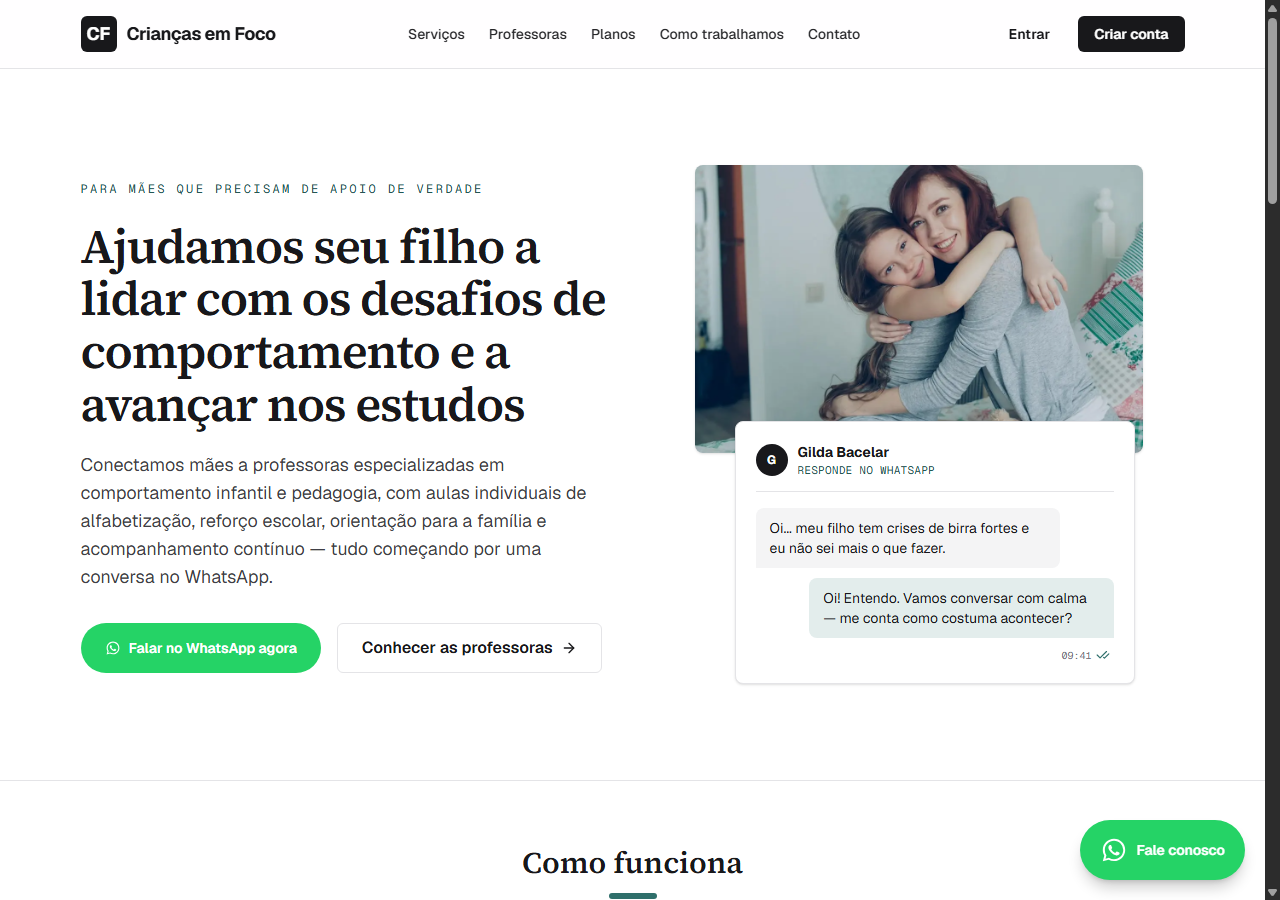
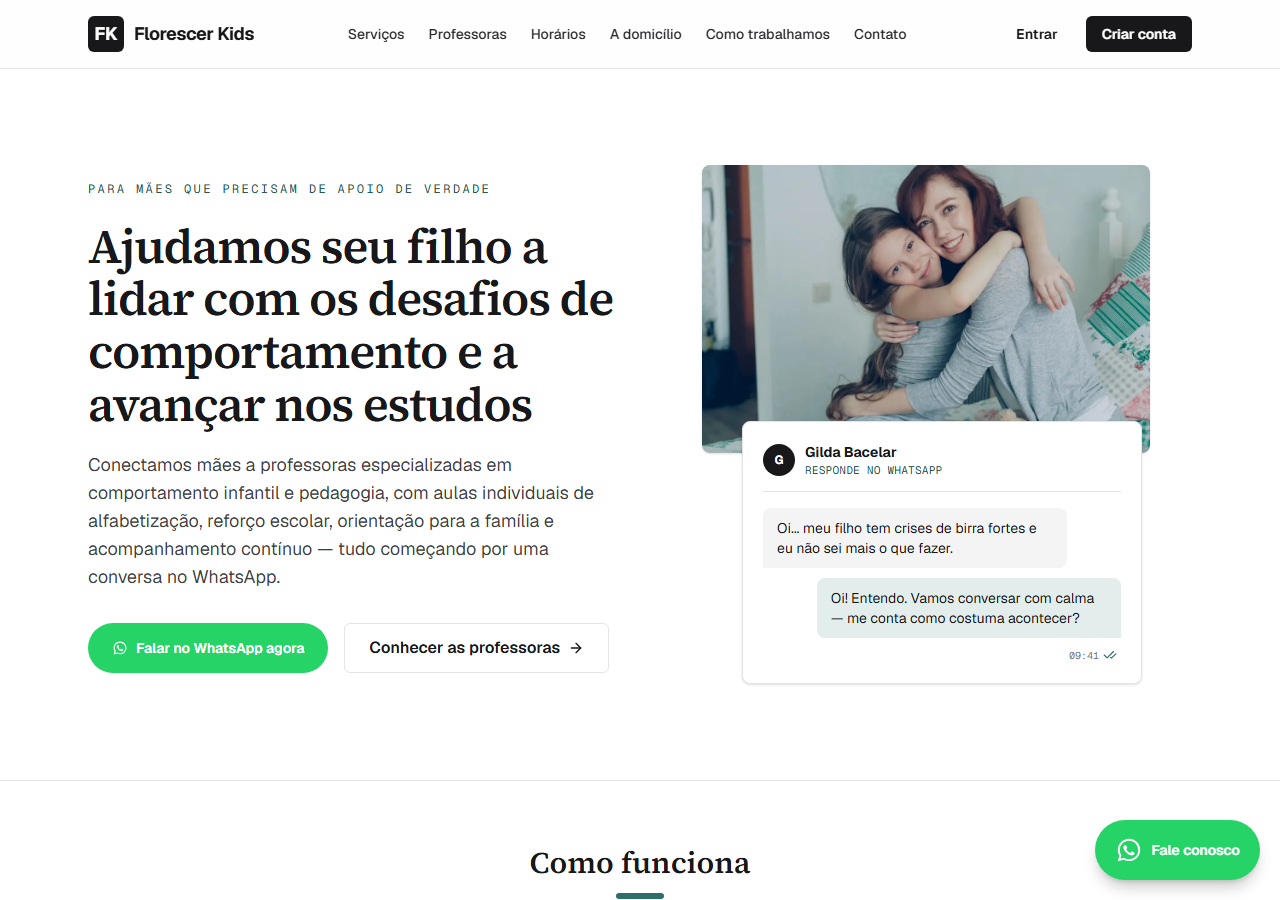
Atualizar README para refletir o estado atual do projeto
O README estava desatualizado desde a virada pra PIX/domicilio: ainda
falava em Resend (trocado pelo Gmail SMTP), nao mencionava atendimento
a domicilio, bloqueio de dias, nota pos-aula, rate limiting nem Sentry.

Tambem atualizada a screenshot da home (o visual mudou bastante desde
a ultima) e o .env.example com as variaveis reais em uso hoje.

diff --git a/README.md b/README.md
@@ -1,29 +1,34 @@
 # Florescer Kids
 
-Plataforma que conecta mães a professoras especializadas em **comportamento infantil e pedagogia** — aulas particulares (TDAH, TEA, birras, ansiedade, alfabetização, reforço escolar), com agendamento online, pagamento por PIX e contato direto por WhatsApp.
+Plataforma que conecta mães a professoras especializadas em **comportamento infantil e pedagogia** — aulas particulares (TDAH, TEA, birras, ansiedade, alfabetização, reforço escolar), com agendamento online ou a domicílio, pagamento por PIX e contato direto por WhatsApp.
 
-![Next.js](https://img.shields.io/badge/Next.js-16-black?logo=next.js) ![TypeScript](https://img.shields.io/badge/TypeScript-strict-blue?logo=typescript) ![Tailwind CSS](https://img.shields.io/badge/Tailwind-v4-38bdf8?logo=tailwindcss) ![Prisma](https://img.shields.io/badge/Prisma-v7-2D3748?logo=prisma) ![Deploy](https://img.shields.io/badge/deploy-Vercel-black?logo=vercel)
+![Next.js](https://img.shields.io/badge/Next.js-16-black?logo=next.js) ![TypeScript](https://img.shields.io/badge/TypeScript-strict-blue?logo=typescript) ![Tailwind CSS](https://img.shields.io/badge/Tailwind-v4-38bdf8?logo=tailwindcss) ![Prisma](https://img.shields.io/badge/Prisma-v7-2D3748?logo=prisma) ![Deploy](https://img.shields.io/badge/deploy-Vercel-black?logo=vercel) ![Sentry](https://img.shields.io/badge/monitoring-Sentry-362d59?logo=sentry)
 
 ![Página inicial do Florescer Kids](docs/screenshot-home.png)
 
 ## Sobre o projeto
 
-Mães que enfrentam desafios de comportamento ou aprendizagem com os filhos costumam pesquisar ajuda sozinhas, à noite, cansadas, sem saber por onde começar. O Florescer Kids existe para tornar esse primeiro passo simples: a mãe conhece o perfil de uma professora especializada, vê especialidades, avaliações reais de outras famílias e preço, e já sai agendando uma aula ou falando direto no WhatsApp — sem formulário longo, sem espera.
+Mães que enfrentam desafios de comportamento ou aprendizagem com os filhos costumam pesquisar ajuda sozinhas, à noite, cansadas, sem saber por onde começar. O Florescer Kids existe para tornar esse primeiro passo simples: a mãe conhece o perfil de uma professora especializada, vê especialidades, formação, avaliações reais de outras famílias e preço, e já sai agendando uma aula — online ou presencial — ou falando direto no WhatsApp, sem formulário longo, sem espera.
 
-O modelo é intencionalmente enxuto: cada professora tem um perfil completo (bio, especialidades, fotos), a mãe agenda diretamente num horário fixo de atendimento (segunda a sexta a partir das 17h, fins de semana a partir das 14h) e paga a aula via PIX, direto para a professora. Um painel de administração permite acompanhar reservas e aprovar novas professoras.
+O modelo é intencionalmente enxuto: cada professora tem um perfil completo (bio, formação, especialidades, foto), a mãe agenda diretamente num horário fixo de atendimento e paga a aula via PIX, direto para a professora. Um painel de administração permite acompanhar reservas e aprovar novas professoras.
 
 ## Funcionalidades
 
-- **Perfis de professoras** com bio, foto, tags de especialidade coloridas por categoria e avaliações reais de mães
-- **Página de horários** com a disponibilidade dos próximos dias (fixa: seg-sex a partir das 17h, fins de semana a partir das 14h, no máximo 3 aulas/dia)
-- **Agendamento de aulas** com verificação de horário disponível em tempo real (sem overbooking)
-- **Pagamento por PIX**: QR code (BR Code) e chave gerados dinamicamente, exibidos na página de horários e no perfil da professora
+- **Perfis de professoras** com bio, formação/credenciais, foto, tags de especialidade coloridas por categoria e avaliações reais de mães
+- **Atendimento online**, por videochamada (Google Meet) — seg-sex a partir das 17h, fins de semana a partir das 14h, no máximo 3 aulas/dia
+- **Atendimento a domicílio** (área de serviço restrita), com a família escolhendo a direção (professora vai até a família, ou a família vai até a professora) — máximo 1 atendimento/dia, endereço tratado como dado sensível (só visível entre as duas partes, nunca público)
+- **Bloqueio de dias** pela professora (viagem, feriado, imprevisto) — o dia some da disponibilidade automaticamente
+- **Agendamento de aulas** com verificação de horário disponível em tempo real e um índice único no banco que impede duas reservas no mesmo horário mesmo em caso de corrida entre requisições simultâneas
+- **Pagamento por PIX**: QR code (BR Code) e chave gerados dinamicamente, com o valor certo pra cada modalidade
+- **Nota pós-aula**: a professora registra o que trabalhou depois de concluir uma aula, visível pra mãe no painel dela
 - **Avaliações**: mães avaliam a aula (1–5 estrelas + comentário) depois de concluída
 - **Contato direto por WhatsApp** (click-to-chat) — botão flutuante, por professora e por aula agendada
-- **Lembrete automático por e-mail** no dia anterior a cada aula confirmada (cron diário)
-- **Painel da mãe**: aulas agendadas, cancelamento, histórico
-- **Painel da professora**: perfil, confirmação/cancelamento de aulas
+- **E-mails transacionais**: aviso pra professora a cada novo agendamento, lembrete no dia anterior a cada aula confirmada, redefinição de senha
+- **Painel da mãe**: aulas agendadas, cancelamento, histórico, contador de aulas com a professora
+- **Painel da professora**: perfil, agenda (pendentes/confirmadas/histórico), resumo de ganhos previstos e avaliação média, dicas rotativas
 - **Painel de administração**: aprovação de professoras, visão geral das reservas
+- **Rate limiting** em login, cadastro e recuperação de senha (proteção contra força bruta)
+- **Monitoramento de erros em produção** (Sentry) — cliente, servidor e edge
 - **SEO completo**: metadata por página, Open Graph dinâmico, sitemap, robots.txt
 - **Identidade visual própria**: paleta editorial com cores por categoria de especialidade, tipografia serifada + mono, animações discretas de scroll
 
@@ -36,7 +41,8 @@ O modelo é intencionalmente enxuto: cada professora tem um perfil completo (bio
 | Banco de dados | PostgreSQL via [Neon](https://neon.tech), [Prisma ORM v7](https://www.prisma.io) (`@prisma/adapter-neon`) |
 | Autenticação | [NextAuth v5](https://authjs.dev) (credenciais e-mail/senha, papéis mãe / professora / admin) |
 | Pagamentos | PIX (BR Code gerado com [`qrcode`](https://www.npmjs.com/package/qrcode), sem intermediário) |
-| E-mail | [Resend](https://resend.com) — lembretes de aula e redefinição de senha |
+| E-mail | SMTP do Gmail via [Nodemailer](https://nodemailer.com) — avisos, lembretes e redefinição de senha |
+| Monitoramento | [Sentry](https://sentry.io) (`@sentry/nextjs`) — captura de erros em cliente, servidor e edge |
 | Deploy | [Vercel](https://vercel.com) (deploy automático a cada push em `main`) |
 
 ## Como rodar localmente
@@ -61,29 +67,34 @@ Acesse http://localhost:3000. As credenciais das contas de teste criadas pelo se
 | `AUTH_SECRET` | Chave usada pelo NextAuth para assinar sessões — gere com `openssl rand -base64 32` |
 | `NEXT_PUBLIC_WHATSAPP_NUMBER` | Número de WhatsApp da equipe (DDI+DDD, só dígitos) usado no botão flutuante do site |
 | `NEXT_PUBLIC_SITE_URL` | URL pública do site, usada nos e-mails e no metadata de SEO |
-| `RESEND_API_KEY` | Chave de API do Resend, para envio de e-mails transacionais |
-| `RESEND_FROM_EMAIL` | Endereço remetente dos e-mails — precisa ser de um domínio verificado no Resend para enviar a qualquer destinatário |
+| `GMAIL_USER` | Conta do Gmail usada para enviar e-mails transacionais via SMTP |
+| `GMAIL_APP_PASSWORD` | Senha de app do Gmail (gerada em myaccount.google.com/apppasswords, não é a senha normal da conta) |
+| `NEXT_PUBLIC_SENTRY_DSN` | DSN do projeto no Sentry, para captura de erros em produção (opcional em dev) |
 | `CRON_SECRET` | Token que protege a rota do cron de lembretes de aula (`/api/cron/booking-reminders`) |
 
 ## Estrutura principal
 
 - `src/app/page.tsx` — landing page (hero, serviços, professoras em destaque, avaliações)
-- `src/app/professoras` — listagem e perfil da professora, com agendamento, PIX e avaliações
-- `src/app/horarios` — disponibilidade dos próximos dias e informações de pagamento por PIX
+- `src/app/professoras` — listagem e perfil da professora, com agendamento online, PIX e avaliações
+- `src/app/horarios` — disponibilidade dos próximos dias (atendimento online) e informações de pagamento por PIX
+- `src/app/domicilio` — atendimento presencial: área de serviço, escolha de direção, agenda própria e FAQ
 - `src/app/cadastro`, `src/app/login`, `src/app/esqueci-senha` — conta (mãe ou professora), login e recuperação de senha
-- `src/app/dashboard` — painel: mães veem aulas agendadas; professoras editam perfil e confirmam aulas
+- `src/app/dashboard` — painel: mães veem aulas agendadas; professoras editam perfil, gerenciam a agenda e bloqueiam dias
 - `src/app/admin` — aprovação de professoras e visão geral das reservas
 - `src/app/api/cron/booking-reminders` — envia lembrete por e-mail no dia anterior a cada aula confirmada
-- `src/lib/schedule.ts` — regras fixas de horário (dias/horas de atendimento, limite diário)
-- `src/lib/pix.ts` — geração do payload PIX (BR Code) e do QR code
-- `src/lib/actions` — Server Actions (cadastro, login, agendamento, avaliação, admin)
-- `src/components` — componentes de UI compartilhados (`SpecialtyTags`, `SectionMark`, `PixPaymentInfo`, `RatingStars`, formulários)
-- `prisma/schema.prisma` — modelos `User`, `TeacherProfile`, `Availability`, `Booking`, `Review`
+- `src/lib/schedule.ts` — regras fixas de horário (online e a domicílio, cada uma com seu limite diário)
+- `src/lib/pix.ts` — geração do payload PIX (BR Code) e do QR code, com valor configurável
+- `src/lib/email.ts` — envio de e-mails transacionais (Nodemailer/Gmail)
+- `src/lib/rateLimit.ts` + `src/lib/clientIp.ts` — rate limiting baseado em banco, sem dependência externa
+- `src/lib/actions` — Server Actions (cadastro, login, agendamento, avaliação, perfil, bloqueio de dias, admin)
+- `src/components` — componentes de UI compartilhados (`SpecialtyTags`, `SectionMark`, `PixPaymentInfo`, `RatingStars`, `TeacherCard`, formulários)
+- `src/instrumentation.ts` + `sentry.*.config.ts` — configuração do Sentry
+- `prisma/schema.prisma` — modelos `User`, `TeacherProfile`, `Booking` (com modalidade online/domicílio), `BlockedDate`, `Review`, `RateLimitAttempt`
 - `prisma/seed.ts` — dados de exemplo
 
 ## Sobre a integração com WhatsApp
 
-A integração é via **click-to-chat** (`https://wa.me/<número>?text=...`), que não exige aprovação da Meta nem tem custo — funciona com qualquer número comum. Aparece em três lugares: botão flutuante em todas as páginas, botão no perfil de cada professora (com mensagem pré-preenchida) e botão em cada aula agendada no painel da mãe.
+A integração é via **click-to-chat** (`https://wa.me/<número>?text=...`), que não exige aprovação da Meta nem tem custo — funciona com qualquer número comum. Aparece em vários pontos: botão flutuante em todas as páginas, botão no perfil de cada professora (com mensagem pré-preenchida) e botão em cada aula agendada no painel da mãe.
 
 Se no futuro for necessário automatizar respostas ou confirmações, é possível evoluir para a **WhatsApp Business API** (Meta Cloud API ou provedores como Twilio/Z-API), mas isso exige aprovação de conta business e tem custo por mensagem.
 
@@ -91,9 +102,9 @@ Se no futuro for necessário automatizar respostas ou confirmações, é possív
 
 Não há integração com gateway de pagamento: o site gera um QR code (BR Code) e mostra a chave PIX da professora, e o pagamento é feito manualmente, fora da plataforma — a mãe agenda a aula, paga direto para a professora e o agendamento é confirmado por confiança (sem verificação automática de pagamento).
 
-Os dados do recebedor (chave PIX, nome e cidade — exigidos pelo padrão do Banco Central) ficam em `PIX_CONFIG`, no topo de `src/lib/pix.ts`. Para trocar a chave ou o nome exibido, edite essa constante — não é uma variável de ambiente.
+Os dados do recebedor (chave PIX, nome e cidade — exigidos pelo padrão do Banco Central) ficam em `PIX_CONFIG`, no topo de `src/lib/pix.ts`. O valor mostrado no QR code varia conforme a modalidade — vem do preço configurado no perfil de cada professora (`pricePerHour` para online, `pricePerHourDomicilio` para atendimento a domicílio).
 
-As regras de horário (dias/horas de atendimento e limite de aulas por dia) ficam em `SCHEDULE_RULES`, em `src/lib/schedule.ts`.
+As regras de horário (dias/horas de atendimento e limite de aulas por dia, para cada modalidade) ficam em `src/lib/schedule.ts`.
 
 ## Deploy (passo a passo)
 
@@ -104,7 +115,7 @@ Crie uma conta em https://neon.tech, crie um projeto (região São Paulo/`sa-eas
 ### 2. GitHub
 
 ```bash
-git remote add origin https://github.com/SEU-USUARIO/criancas-em-foco.git
+git remote add origin https://github.com/SEU-USUARIO/florescer-kids.git
 git branch -M main
 git push -u origin main
 ```
@@ -121,17 +132,10 @@ Depois do primeiro deploy, um domínio próprio pode ser configurado em **Projec
 ### 4. Depois do deploy
 
 - Configure o cron de lembretes (`vercel.json` já define o schedule) e garanta que `CRON_SECRET` está setado
+- Crie um projeto Next.js em https://sentry.io e adicione `NEXT_PUBLIC_SENTRY_DSN` para monitoramento de erros
 - Todo `git push` em `main` publica uma nova versão automaticamente
 
 ## Roadmap
 
-**Confiança/conversão**
-- Selo de verificação/formação no perfil da professora
-- Aviso de segurança sobre pagamento ("não pedimos pagamento fora da plataforma")
-- FAQ com dúvidas comuns
-
-**Infraestrutura**
-- Verificação do domínio próprio no Resend (hoje o envio de e-mail é limitado ao modo sandbox)
 - Testes automatizados e CI (lint/build/test a cada push)
-- Rate limiting em login, cadastro e recuperação de senha
-- Monitoramento de erros em produção e analytics de conversão
+- Analytics de conversão
